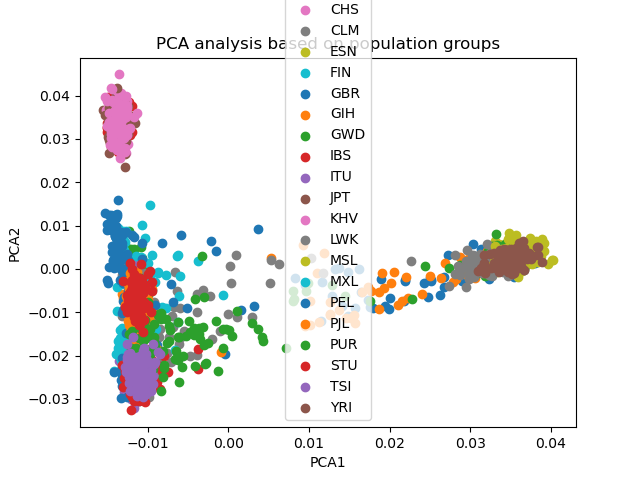
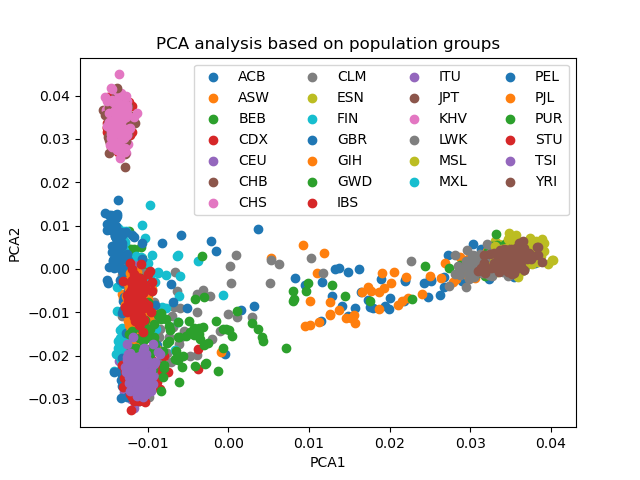
git pull all the changes

diff --git a/day3-homework/Exercise3.py b/day3-homework/Exercise3.py
@@ -39,7 +39,7 @@ for i in range(len(pop)):  #for each type
 ax.set_xlabel("PCA1")
 ax.set_ylabel("PCA2")
 ax.set_title("PCA analysis based on population groups")
-ax.legend()
+ax.legend(loc = 1, ncol = 4) 
 
 plt.savefig("ex3_a.png")
 

diff --git a/day1-homework/README.md b/day1-homework/README.md
@@ -1,7 +1,7 @@
 # QBB2022 - Day 1 - Homework Exercises Submission
 Exercise 1: 
 error messaage: awk: illegal field $(), name "nuc"
-when I searched Google, I saw that "Use -v option in awk to pass shell variables to awk:", so I noticed that the variable "nuc"  was not delivered to akd properly. So I editted the exercise11.sh into:
+when I searched Google, I saw that "Use -v option in awk to pass shell variables to awk:", so I noticed that the variable "nuc"  was not delivered to akd properly. So I editted the exercise1.sh into:
 awk -v nuc=$nuc '/^#/{next} {if ($4 == nuc) {print $5}}' $1 | sort | uniq -c
 The readout: 
 Considering  A
@@ -60,7 +60,7 @@ so I sorted  the varianst.bed
 sort -k1,1 -k2,2n variants.bed  > newvariants.bed
 The exercise3.sh now  shows as:
 awk '/^#/{next} {print $1,$2-1, $2}' $1 > variants.bed
-perl -p -i -e 's/ /\t/g' variants.bed 
+perl -p -i -e 's/ /\t/g' variants.bed # awk  -v OFS='/t/' {print $1,$2-1,$2} > variants.bed
 sort -k1,1 -k2,2n variants.bed  > newvariants.bed
 sort -k1,1 -k2,2n ~/data/bed_files/genes.bed > genes.sorted.bed
 bedtools closest -a newvariants.bed -b genes.sorted.bed

diff --git a/day3-homework/README exercise2.md b/day3-homework/README exercise2.md
@@ -28,6 +28,8 @@ the code:
 
 Among the points, I notice that more data dots have positive PCA3 than  positive PCA2 when their PCA1 is near 0. Meanwhile, when PCA1 is near 0, which means PCA1 has less impact on the data, PCA3 is more evenly attributed along its axis, while PCA2 is more likely to be seperated. This means if PCA1 is not considered, PCA2 is a more important factor in affecting data distribution.
 
+The  PCA1/PCA2 could separate  superpopulation better 
+
 
 
 
